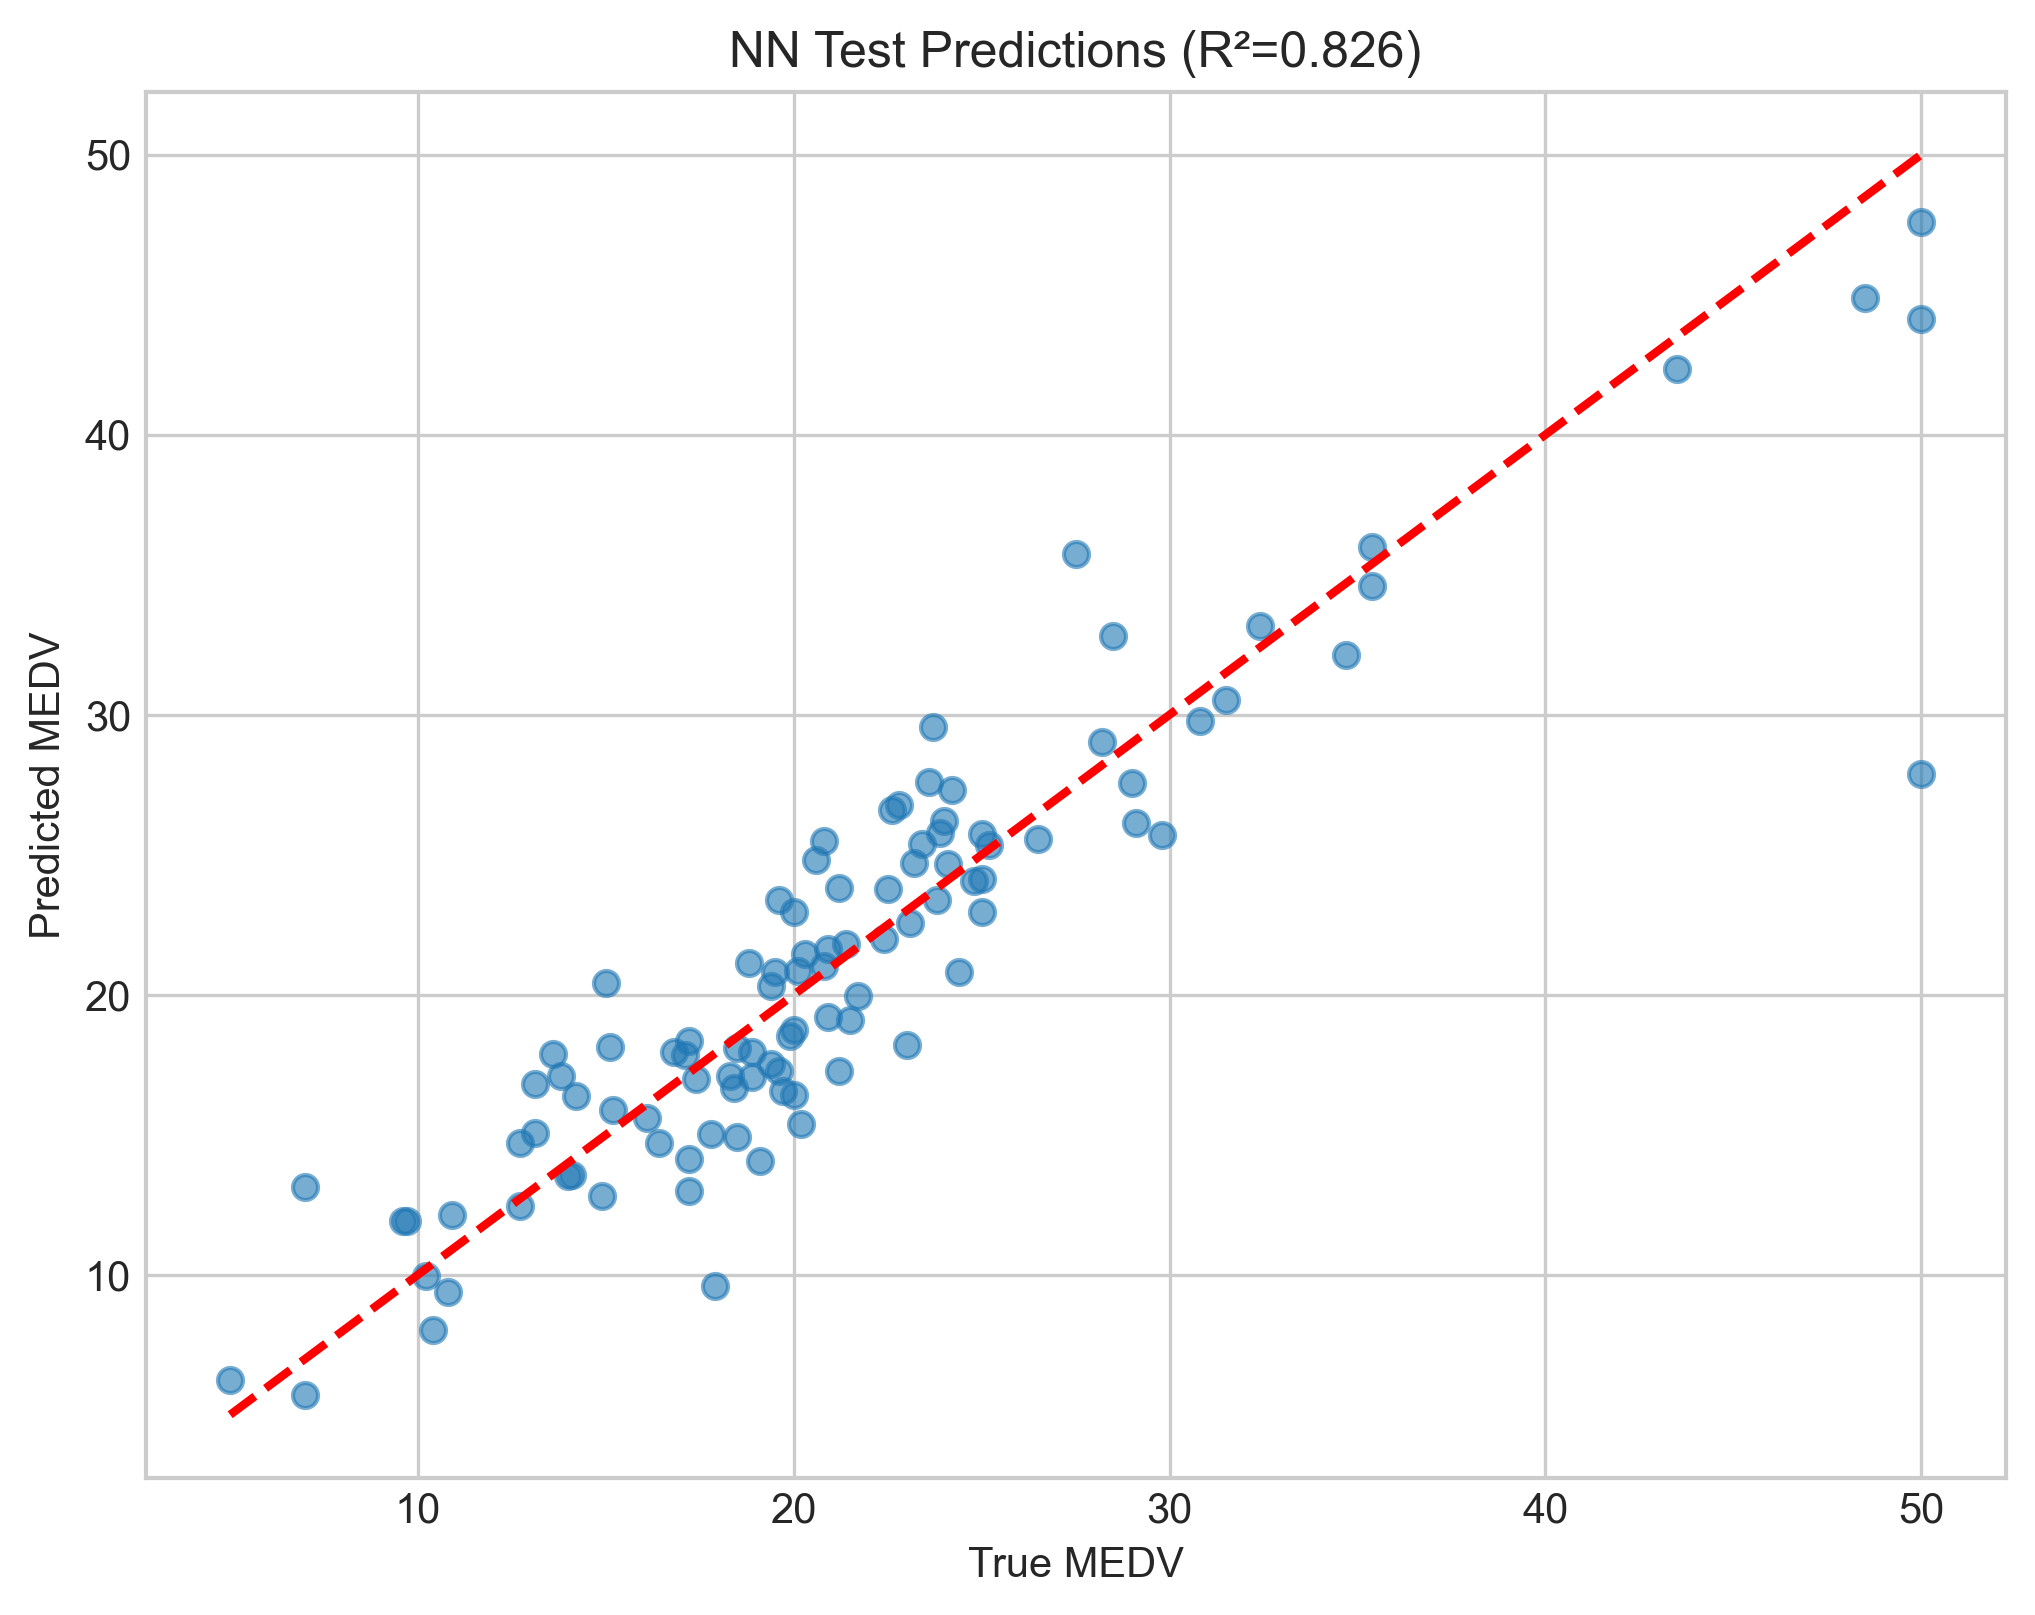
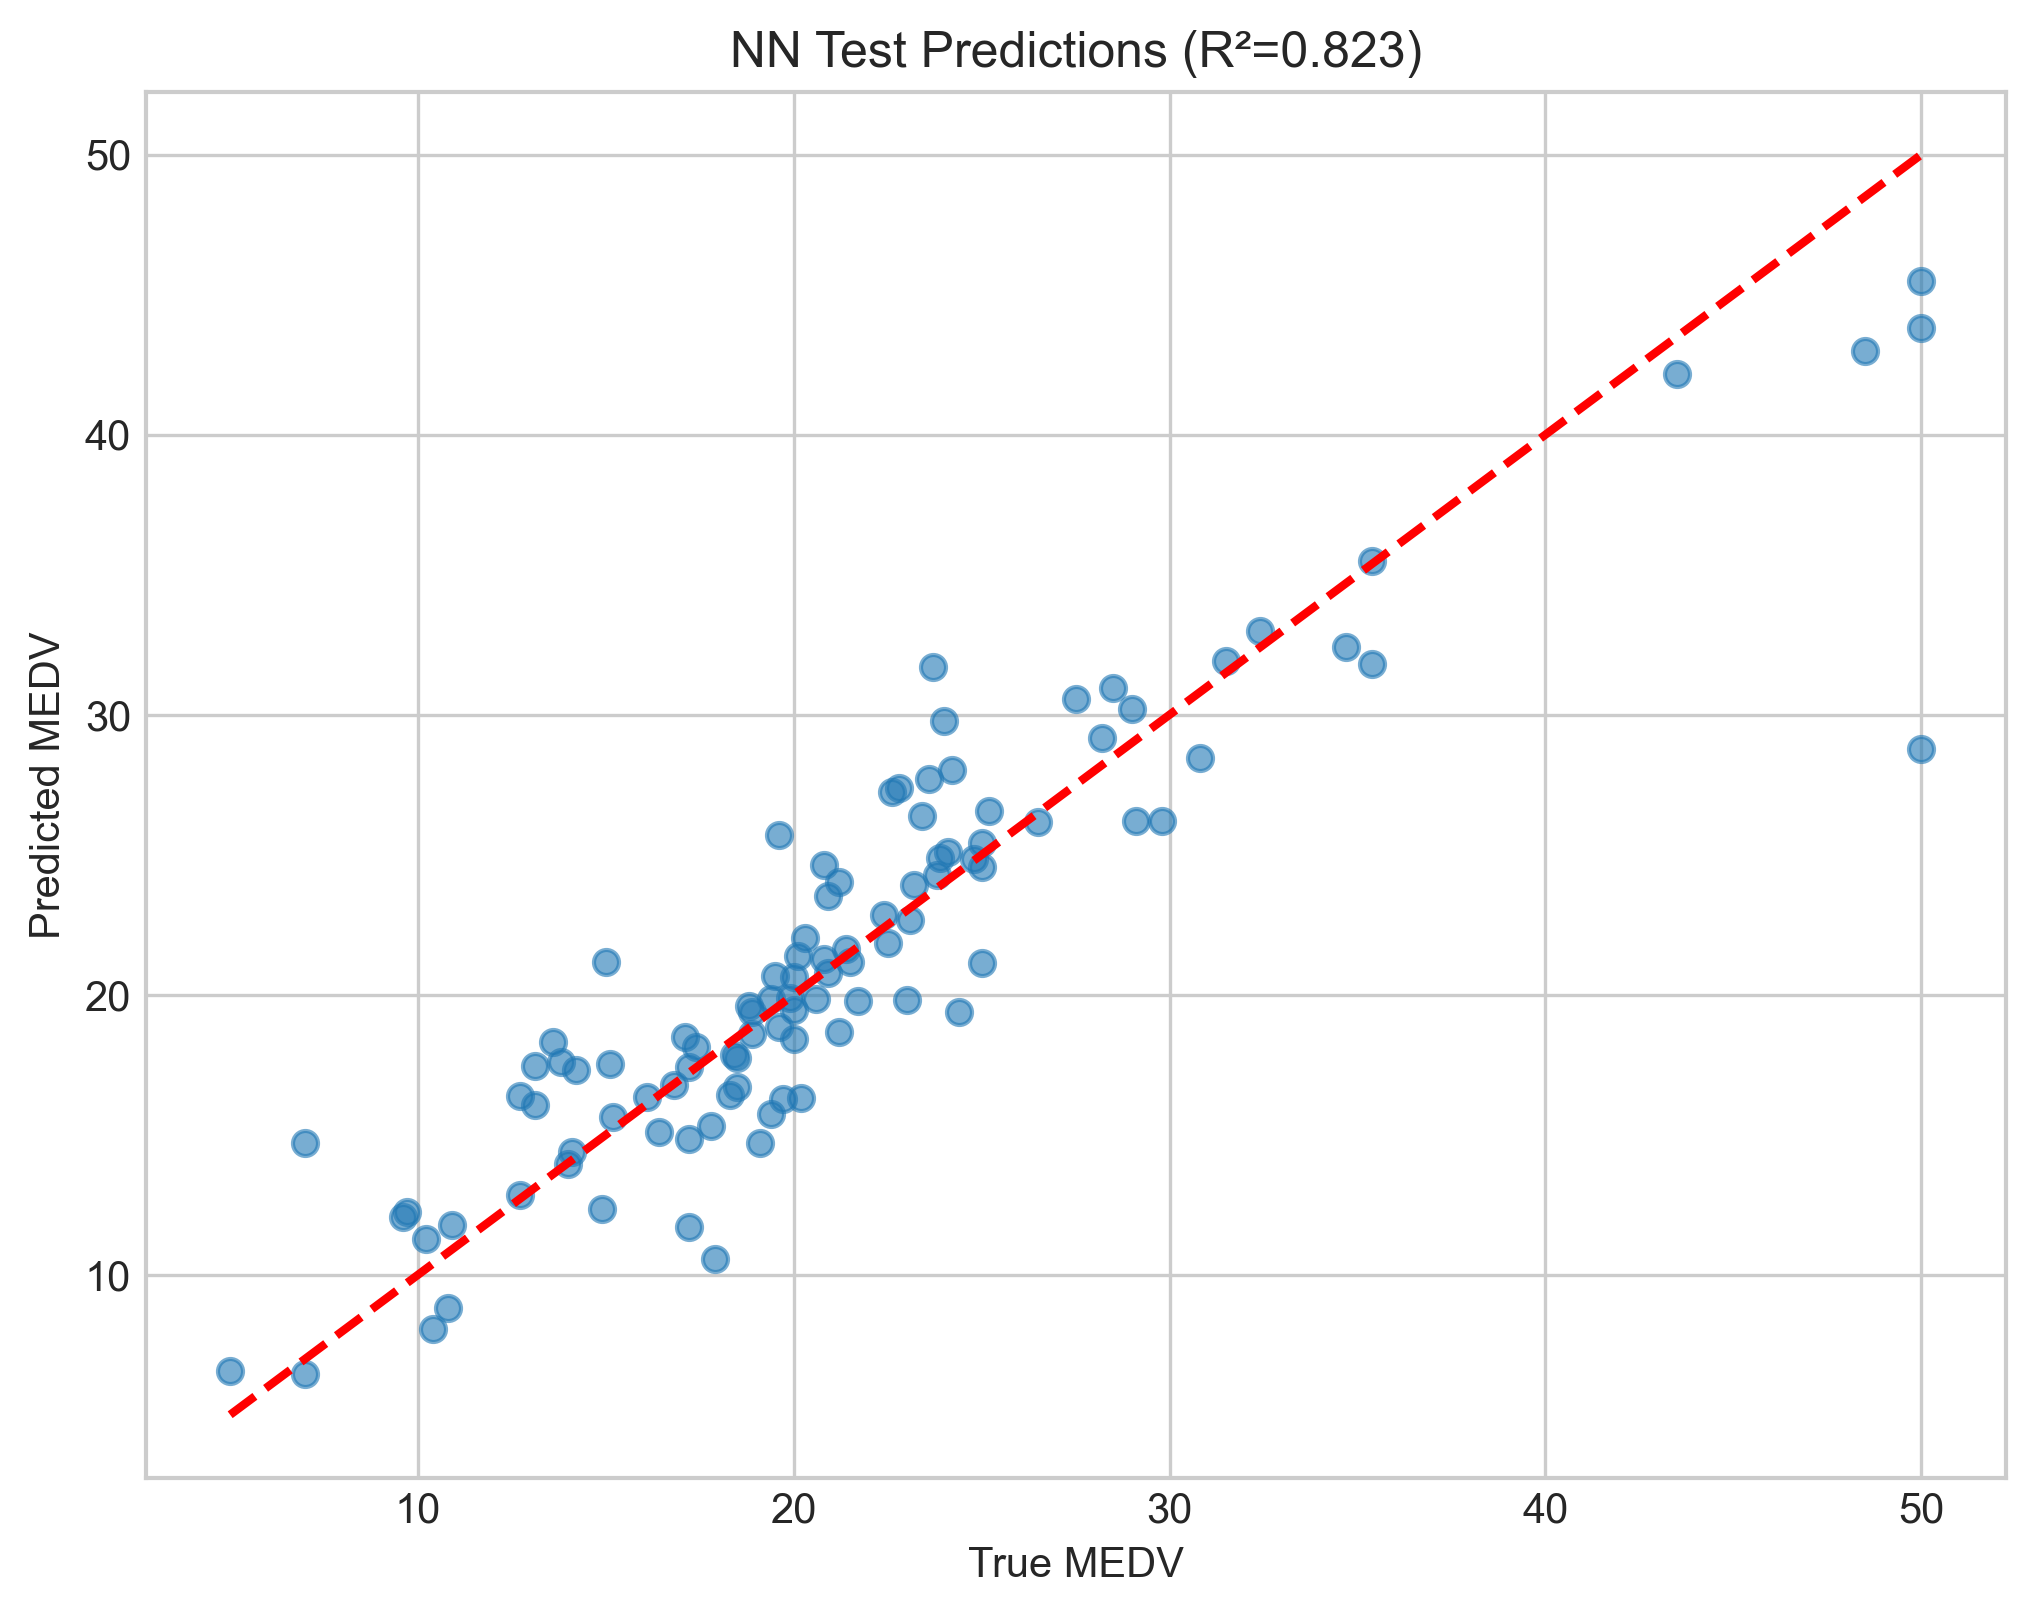
corrected nums

diff --git a/README.md b/README.md
@@ -121,12 +121,12 @@ Scaffolded in `EvolutionaryAlgorithm.py` — evolves neural network weights usin
 
 | Metric   | Gradient Descent (Linear) | Neural Network (Keras) |
 | -------- | :-----------------------: | :--------------------: |
-| **MSE**  |          ~24.29           |         ~12.72         |
-| **RMSE** |           ~4.93           |         ~3.57          |
-| **MAE**  |           ~3.44           |         ~2.42          |
-| **R²**   |          ~0.669           |         ~0.827         |
+| **MSE**  |          32.406           |         12.957         |
+| **RMSE** |           5.692           |         3.599          |
+| **MAE**  |           3.378           |         2.399          |
+| **R²**   |          0.558            |         0.823          |
 
-> *Values are approximate from typical runs with the given seeds/hyperparameters.*
+
 
 ### Training Loss Curves
 
